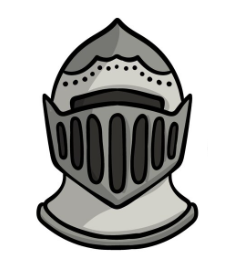
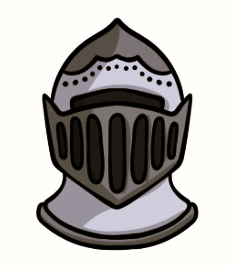
Iteration 7 Bugfixes

Changed region(s): [[0.1477, 0.0593, 0.8565, 0.9481]]

diff --git a/index.html b/index.html
@@ -380,6 +380,33 @@
 const canvas = document.getElementById('canvas');
 const ctx    = canvas.getContext('2d');
 
+// ─── Water texture ────────────────────────────────────────────────────────────
+let waterPattern = false;
+const _waterImg  = new Image();
+_waterImg.onload = () => { waterPattern = true; render(); };
+_waterImg.src = 'water3.jpg';
+
+// ─── Land texture ─────────────────────────────────────────────────────────────
+let regionsReady = false;
+const _regionsImg = new Image();
+_regionsImg.onload  = () => { regionsReady = true; render(); };
+_regionsImg.onerror = () => console.error('Failed to load Regions.jpg');
+_regionsImg.src = 'Regions.jpg';
+
+// ─── Castle image ─────────────────────────────────────────────────────────────
+let castleImgReady = false;
+const _castleImg = new Image();
+_castleImg.onload  = () => { castleImgReady = true; render(); };
+_castleImg.onerror = () => console.error('Failed to load Castle2.jpg');
+_castleImg.src = 'Castle2.jpg';
+
+function hexToRgba(hex, alpha) {
+  const r = parseInt(hex.slice(1, 3), 16);
+  const g = parseInt(hex.slice(3, 5), 16);
+  const b = parseInt(hex.slice(5, 7), 16);
+  return `rgba(${r},${g},${b},${alpha})`;
+}
+
 // ─── Logical coordinate space ─────────────────────────────────────────────────
 const LW = 1000, LH = 640;
 
@@ -1166,15 +1193,22 @@ function centroid(pts) {
   return spt([lx, ly]);
 }
 
-// Tower with three merlons.
 function drawCastle(cx, cy) {
-  const w = 18, bodyH = 13, mw = 5, mh = 5;
-  const x = cx - w / 2, y = cy - (bodyH + mh) / 2;
-  ctx.fillStyle = ICON_INK;
-  ctx.fillRect(x,               y + mh, w,  bodyH);  // body
-  ctx.fillRect(x,               y,      mw, mh);      // left merlon
-  ctx.fillRect(x + (w - mw)/2,  y,      mw, mh);      // centre merlon
-  ctx.fillRect(x + w - mw,      y,      mw, mh);      // right merlon
+  const size = 42;
+  if (castleImgReady) {
+    ctx.save();
+    ctx.globalCompositeOperation = 'multiply';
+    ctx.drawImage(_castleImg, cx - size / 2, cy - size / 2, size, size);
+    ctx.restore();
+  } else {
+    const w = 18, bodyH = 13, mw = 5, mh = 5;
+    const x = cx - w / 2, y = cy - (bodyH + mh) / 2;
+    ctx.fillStyle = ICON_INK;
+    ctx.fillRect(x,               y + mh, w,  bodyH);
+    ctx.fillRect(x,               y,      mw, mh);
+    ctx.fillRect(x + (w - mw)/2,  y,      mw, mh);
+    ctx.fillRect(x + w - mw,      y,      mw, mh);
+  }
 }
 
 // Triangle roof on a small rectangle.
@@ -1191,35 +1225,11 @@ function drawVillage(cx, cy) {
   ctx.fill();                        // roof
 }
 
-// Pennant on a pole, offset to upper-right of the icon so they don't collide.
-function drawFlag(cx, cy, owner) {
-  const poleX   = cx + 12;
-  const poleTop = cy - 22;
-  const poleH   = 14;
-  const fw = 10, fh = 7;
-
-  // Pole
-  ctx.fillStyle = ICON_INK;
-  ctx.fillRect(poleX - 1, poleTop, 2, poleH);
-
-  // Pennant triangle (points right)
-  ctx.beginPath();
-  ctx.moveTo(poleX,      poleTop);
-  ctx.lineTo(poleX + fw, poleTop + fh / 2);
-  ctx.lineTo(poleX,      poleTop + fh);
-  ctx.closePath();
-  ctx.fillStyle = FACTION_COLORS[owner];
-  ctx.fill();
-  // Thin outline so the pennant reads against its own faction-colored background
-  ctx.strokeStyle = 'rgba(30,18,5,0.7)';
-  ctx.lineWidth = 1;
-  ctx.stroke();
-}
 
 // Up to 5 stacked circles; 6+ shows a number.
 function drawUnits(cx, cy, units) {
   if (units <= 0) return;
-  const baseY = cy + 18;
+  const baseY = cy + 26;
   ctx.fillStyle = ICON_INK;
   if (units <= 5) {
     const span = (units - 1) * 10;
@@ -1238,35 +1248,18 @@ function drawUnits(cx, cy, units) {
 
 // ─── Draw routines ────────────────────────────────────────────────────────────
 function drawSea(region) {
-  tracePoly(region.pts);
-  ctx.fillStyle = '#7bbdd4';
-  ctx.fill();
-
-  // Subtle wave pattern, clipped to polygon
   ctx.save();
   tracePoly(region.pts);
   ctx.clip();
-
-  const mapped = region.pts.map(spt);
-  const minY = Math.min(...mapped.map(p => p[1]));
-  const maxY = Math.max(...mapped.map(p => p[1]));
-  const minX = Math.min(...mapped.map(p => p[0]));
-  const maxX = Math.max(...mapped.map(p => p[0])) + 22;
-
-  ctx.strokeStyle = 'rgba(255,255,255,0.20)';
-  ctx.lineWidth = 1;
-  const gap = 22;
-  for (let wy = minY + gap * 0.7; wy < maxY; wy += gap) {
-    ctx.beginPath();
-    for (let wx = minX; wx < maxX; wx += 22) {
-      ctx.moveTo(wx, wy);
-      ctx.bezierCurveTo(wx + 5.5, wy - 5, wx + 11, wy + 5, wx + 22, wy);
-    }
-    ctx.stroke();
+  if (waterPattern) {
+    ctx.drawImage(_waterImg, 0, 0, canvas.width, canvas.height);
+  } else {
+    ctx.fillStyle = '#7bbdd4';
+    ctx.fill();
   }
   ctx.restore();
 
-  // Seal hairline gaps at cell boundaries with a sea-coloured stroke
+  // Seal hairline gaps at cell boundaries
   tracePoly(region.pts);
   ctx.strokeStyle = '#7bbdd4';
   ctx.lineWidth = 3;
@@ -1275,10 +1268,21 @@ function drawSea(region) {
 }
 
 function drawLand(region) {
+  ctx.save();
   tracePoly(region.pts);
-  ctx.fillStyle = region.owner === null
-    ? NEUTRAL_COLOR
-    : FACTION_COLORS[region.owner];
+  ctx.clip();
+  if (regionsReady) {
+    ctx.drawImage(_regionsImg, 0, 0, canvas.width, canvas.height);
+  } else {
+    ctx.fillStyle = NEUTRAL_COLOR;
+    ctx.fill();
+  }
+  ctx.restore();
+
+  // Faction / neutral colour at 70% opacity over the texture
+  const baseColor = region.owner === null ? NEUTRAL_COLOR : FACTION_COLORS[region.owner];
+  tracePoly(region.pts);
+  ctx.fillStyle = hexToRgba(baseColor, 0.5);
   ctx.fill();
 
   // Coastal land gets a faint blue tint near the sea
@@ -1299,7 +1303,7 @@ function drawLand(region) {
   const [cx, cy] = centroid(region.pts);
   if (region.type === 'castle')  drawCastle(cx, cy);
   if (region.type === 'village') drawVillage(cx, cy);
-  if (region.owner !== null)     drawFlag(cx, cy, region.owner);
+
   drawUnits(cx, cy, region.units);
 }
 
